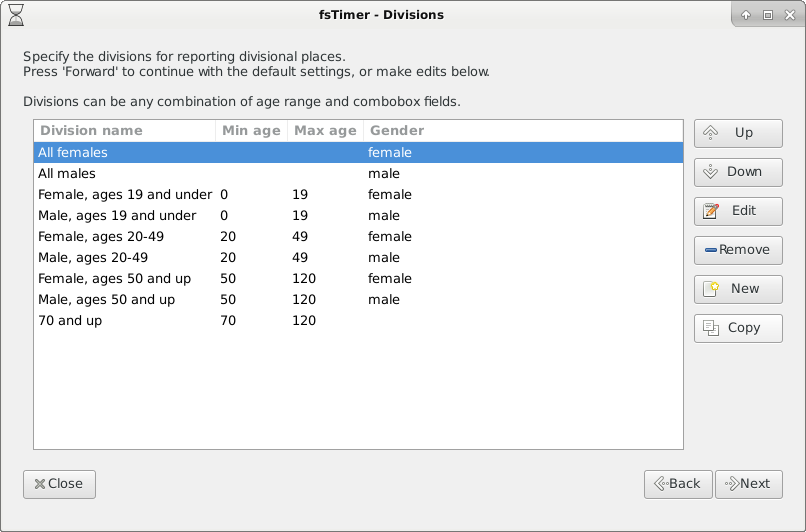
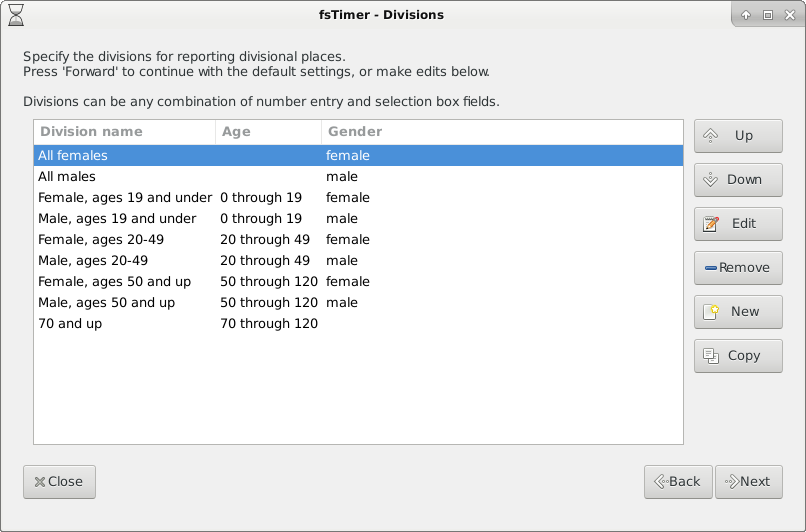
update documentation for new release

diff --git a/documentation/documentation_sec4_1.htm b/documentation/documentation_sec4_1.htm
@@ -48,7 +48,7 @@ Using the drop-down menu you can (optionally) select a project from which to imp
 
 The next window allows you to choose the type of the race:<br><br>
 
-<img width="516" height="221" src="documentation_figs/fstimer_fig61.png"><br><br> <!--645x277-->
+<img width="477" height="264" src="documentation_figs/fstimer_fig61.png"><br><br> <!--645x277-->
 
 A standard race is one where all racers have the same start time. In a handicap race, a "Handicap" time must be specified for all racers. Their final time is then calculated as the marked time minus the handicap. This allows racers to start at different times - a racer could start five minutes late, and by specifying a handicap of "0:05:00" for that racer, his or her time in the results would be corrected. Usually this is done for a race where all runners provide their handicap relative to a base time, and runners start at different times with the hope of all crossing the finish line around the same time.<br><br>
 
@@ -56,19 +56,21 @@ For lap timing, times are marked each time a racer completes a lap. The results 
 
 The next window allows you to specify the fields that will show up in the registration database.<br><br>
 
-<img width="482" height="341" src="documentation_figs/fstimer_fig19.png"><br><br> <!--602x426-->
+<img width="485" height="379" src="documentation_figs/fstimer_fig19.png"><br><br> <!--602x426-->
 
 The "Up" and "Down" buttons allow you to change the order of the fields. This is the order in which they will appear in the registration database: The top entry in this window will be the furthest left column in the registration window, and the bottom entry in this window will be the furthest right column in the registration window. This is also the order that they will show up in the results printouts, should you choose to have them in the results printouts.<br><br>
 
-The "Remove" button removes a field. ID and Age, however, are hard-coded fields and cannot be removed. ID is critical for the timing itself. If you don't want to use Age, you can simply leave that field blank. If it is a "handicap" race, then the field "Handicap" is also required. The "New.." buttons allow you to create a new entrybox or combobox. A combobox means in the registration database the entry will have to take one of a set collection of values. In the window for creating a new registration entry below, "Gender" is a combobox with options "male" and "female" (and blank). An entrybox is a box for freely entering text, like "Last name" and "First name" in the registration entry below.<br><br>
+The "Remove" button removes a field. ID, however, cannot be removed inasmuch as it is critical for the timing itself. If it is a "handicap" race, then the field "Handicap" is also required. The "New.." buttons allow you to create a new "text entry," "number entry," or "selection box." A "selection box" means in the registration database the entry will have to take one of a set collection of values. In the window for creating a new registration entry below, "Gender" is a selection box with options "male" and "female" (and blank). An entry is a box for freely entering text, like "Last name" and "First name" in the registration entry below. If it is specified as a "Number entry", then whatever is entered will be required to be a number, or else it will not be printed in the results. Number entries are used for creating divisions, such as age ranges - the process of creating divisions is detailed further down.<br><br>
 
 <img width="310" height="332" src="documentation_figs/fstimer_fig29.png"><br><br> <!--388x415-->
 
-When creating a new entrybox, you will specify the name of the field (e.g., Last name) and the maximum number of characters to allow in the entrybox. The appropriate maximum number of characters will depend on the field (ID will probably require fewer than Address).<br><br>
+When creating a new text entry, you will specify the name of the field (e.g., Last name) and the maximum number of characters to allow in the entrybox. The appropriate maximum number of characters will depend on the field (ID will probably require fewer than Address).<br><br>
 
 <img width="482" height="341" src="documentation_figs/fstimer_fig30.png"><br><br> <!--602x426-->
 
-When creating a new combobox, you will specify the name of the field (e.g., Gender) as well as what the options in the combobox should be, separated by commas. For example, "male,female" would indicate that the options should be male and female. A blank option will automatically be added to any combobox, you don't need to worry about adding it yourself.<br><br>
+Number entries are created in the same way. The value in a number entry should always be an integer (i.e., not a decimal number). Number entries will allow you to enter text or decimal numbers, but invalid values like these will not be shown in the results.<br><br>
+
+When creating a new selection box, you will specify the name of the field (e.g., Gender) as well as what the options in the selection box should be, separated by commas. For example, "male,female" would indicate that the options should be male and female. A blank option will automatically be added to any selection box, you don't need to worry about adding it yourself.<br><br>
 
 <img width="482" height="341" src="documentation_figs/fstimer_fig31.png"><br><br> <!--602x426-->
 
@@ -78,7 +80,7 @@ Next you can specify the divisionals. Again, "Up" and "Down" change the order in
 
 <img width="642" height="421" src="documentation_figs/fstimer_fig21.png"><br><br> <!--802x526-->
 
-"New" allows you to add a division. Divisions may be defined using a combination of age and any of the comboboxes that were defined as registration fields. For example, if "League" was specified as a combobox in when creating the registration fields, then you could define divisionals using "League." The name of the division that you specify will be used in the divisional results. Then, use the checkboxes to specify which fields you want to use to define the division. In the example below, "Gender" and "League" have been checked, so only those two fields will be used to define the division.<br><br>
+"New" allows you to add a division. Divisions may be defined using a combination of number entries and selection boxes that were defined as registration fields. For example, if "League" was specified as a combobox in when creating the registration fields, then you could define divisionals using "League." If "Age" was specified as a number entry, then any range of values can be used in defining the division. The name of the division that you specify will be used in the divisional results. Then, use the checkboxes to specify which fields you want to use to define the division. In the example below, "Gender" and "League" have been checked, so only those two fields will be used to define the division.<br><br>
 
 <img width="642" height="421" src="documentation_figs/fstimer_fig33.png"><br><br> <!--802x526-->
 
@@ -92,7 +94,7 @@ In the next window we choose which information we want to include on the results
 
 From the top group of checkboxes, you can select which registration fields to include on the results printouts. Next you can select to include Time and/or Pace. If the check box next to Pace is marked, then Pace will be included in the results, computed as Time / distance using the distance that you specify in the Distance entry box. If you enter "5" and your race is a 5k, then the Pace that is calculated will be min/km. If you enter "3.107" for your 5k, then the pace that is calculated will be min/mile.<br><br>
 
-The last section on the window allows you to create custom computed fields, which can be calculated using any of the registration fields, plus Time. You refer to a field by putting the field name (case sensitive!) in curly brackets, as in the screenshot above. So, in the computed results {First name} refers to field {First name}. You can then use any Python operations that you could use on those fields. {Age} and {Time} are numbers (floats), all other registration fields will be treated as text (strings). {Time} will be the time in seconds.<br><br>
+The last section on the window allows you to create custom computed fields, which can be calculated using any of the registration fields, plus Time. You refer to a field by putting the field name (case sensitive!) in curly brackets, as in the screenshot above. So, in the computed results {First name} refers to field {First name}. You can then use any Python operations that you could use on those fields. {Time} is a float number, any "number entry" fields are integers, and all other registration fields will be treated as text (strings). {Time} will be the time in seconds.<br><br>
 
 For example, the expression:<br>
 {First name} + ' ' + {Last name}<br>

diff --git a/documentation/documentation_sec2_6.htm b/documentation/documentation_sec2_6.htm
@@ -45,17 +45,17 @@ Now that we have explored the basic workings of fsTimer with the fstimer_demo pr
 
 First you will choose a name for the project. As it says, only letters, numbers, and underscore may be used in the project name. This will create a subdirectory in the fsTimer directory using the project name. That is, if the project name is project_name, it will create the directory fsTimer/project_name. All of the files generated by fsTimer will be saved in that project directory.<br><br>
 
-<img width="516" height="221" src="documentation_figs/fstimer_fig61.png"><br><br> <!--645x277-->
+<img width="477" height="264" src="documentation_figs/fstimer_fig61.png"><br><br> <!--645x277-->
 
 Next the project type is specified. As it says on the window, there are two project types: standard and handicap. A standard race is one where all racers have the same start time. In a handicap race each racer specifies a handicap, which is an amount of time that they will start later than the start time. Thus different racers can have different start times, but fsTimer will automatically subtract out their handicap when computing finishing times. For either race type, it is possible to have a race with multiple timed laps.<br><br>
 
-<img width="482" height="341" src="documentation_figs/fstimer_fig19.png"><br><br> <!--602x426-->
+<img width="485" height="379" src="documentation_figs/fstimer_fig19.png"><br><br> <!--602x426-->
 
-The next thing to be specified are the registration fields. These are exactly the fields that will show up in the "Registration" window. ID is a required field and must be filled out for runners to show up in results, but otherwise the fields can be customized to those which you want to use. New fields can be added as either an entrybox, meaning a box into which any information can be typed (like for name), or a combobox where one of a few options must be selected (like for gender).<br><br>
+The next thing to be specified are the registration fields. These are exactly the fields that will show up in the "Registration" window. ID is a required field and must be filled out for runners to show up in results, but otherwise the fields can be customized to those which you want to use. New fields can be added as either an text or number entry, meaning a box into which any information can be typed (like for name or age), or a selection box where one of a few options must be selected (like for gender).<br><br>
 
 <img width="642" height="421" src="documentation_figs/fstimer_fig21.png"><br><br> <!--802x526-->
 
-When you press the "Printouts" button from the Timing window, fsTimer will automatically generate two nicely formatted sets of results: overall results listing everyone, and automatically generated divisional results. This is the window where you can specify what the divisions should be for generating the divisional results. You specify the division name, and what the parameters for the division should be. The parameters can be a range of ages, and/or a collection of combobox values.<br><br>
+When you press the "Printouts" button from the Timing window, fsTimer will automatically generate two nicely formatted sets of results: overall results listing everyone, and automatically generated divisional results. This is the window where you can specify what the divisions should be for generating the divisional results. You specify the division name, and what the parameters for the division should be. The parameters can be a collection of combobox values and/or a range of number entry values.<br><br>
 
 <img width="484" height="505" src="documentation_figs/fstimer_fig73.png"><br><br> <!--606x632-->
 
@@ -71,10 +71,5 @@ And that's all there is to starting a new fsTimer project!<br><br>
 Continue on to <a href=documentation_sec3.htm>Section 3 Checklist for timing with fsTimer</a>.
 </div>
 
-<!--
-<div id="footer">
-Questions? Problems? <strike>Bugs</strike> Unanticipated features? Send us an email, at <a href="mailto:admin@fstimer.org">admin@fstimer.org</a>.<br>Copyright 2012 <a href="http://web.mit.edu/bletham/www/" target="_blank">Ben Letham</a>.
-</div>
--->
 </body>
 </html>

diff --git a/documentation/documentation_sec4_2.htm b/documentation/documentation_sec4_2.htm
@@ -40,6 +40,10 @@ The import module allows for a csv file to be imported into an fsTimer registrat
 
 <img width="682" height="399" src="documentation_figs/fstimer_fig4.png"><br><br> <!--853x499-->
 
+If you have accented or non-Latin characters, however, the csv must be in UTF-8. Microsoft Excel will not produce a UTF-8 CSV file, so see these directions on how to get from an Excel spreadsheet to a UTF-8 CSV:<br>
+<a href="https://help.surveygizmo.com/help/encode-an-excel-file-to-utf-8-or-utf-16">https://help.surveygizmo.com/help/encode-an-excel-file-to-utf-8-or-utf-16</a>.<br>
+The Google Drive solution described towards the bottom of the page is probably the easiest, or the LibreOffice solution is great if you need to do this frequently.<br><br>
+
 See the fstimer_demo_online_registration.csv file that comes in the fstimer_demo project preloaded in fsTimer for an example of how the spreadsheet should be formatted. The first row is a header row, giving the name of each column.<br><br>
 
 After pressing "Open" and selecting a csv file, the field mapping window will open:<br><br>
@@ -62,7 +66,7 @@ If you are importing data into a combobox (recall, this is the type of field tha
 
 <img width="482" height="341" src="documentation_figs/fstimer_fig34.png"><br><br> <!--602x426-->
 
-The error tells you what the invalid value is ("Male" instead of "male", "female", or blank), and where in the csv the error is (row 25). Correct any errors until the csv imports directly. When the csv is successfully imported, it will write the corresponding registration database file to a file named project_name_registration_prereg.json, in the directory fstimer/project_name. The file name is printed in the text field on the pre-registration window. <b>Note</b> that if a file project_name_registration_prereg.json already exists (for instance, because you already imported another csv in this same project), <b>it will be overwritten</b>.<br><br>
+The error tells you what the invalid value is ("M" instead of "male", "female", or blank), and where in the csv the error is (row 25). Correct any errors until the csv imports directly. When the csv is successfully imported, it will write the corresponding registration database file to a file named project_name_registration_prereg.json, in the directory fstimer/project_name. The file name is printed in the text field on the pre-registration window. <b>Note</b> that if a file project_name_registration_prereg.json already exists (for instance, because you already imported another csv in this same project), <b>it will be overwritten</b>.<br><br>
 
 
 Continue on to <a href="documentation_sec4_3.htm">Section 4.3 Registration - details</a>.

diff --git a/documentation/documentation_sec4_6.htm b/documentation/documentation_sec4_6.htm
@@ -31,7 +31,11 @@
 
 To time a race with multiple laps, you must specify the number of laps when creating the project (see <a href="documentation_sec4_1.htm">Section 4.1</a> to recall):<br><br>
 
-<img width="516" height="222" src="documentation_figs/fstimer_fig63.png"><br><br> <!--645x277 --> 
+<img width="397" height="220" src="documentation_figs/fstimer_fig63.png"><br><br> <!--645x277 --> 
+
+By default, if racers do not complete the specified number of laps, they will show up in the final results, but ranked at the bottom (since, for instance, they may not have completed the race). The final checkbox in the window above allows for indicating that racers can complete variable number of laps. If checked, then racers will be ranked regardless of how many laps they complete.<br><br>
+
+
 
 There are two new additions to the timing window:<br><br>
 
@@ -53,7 +57,7 @@ When we press "Printouts," the results will be sorted by total time and will con
 
 <img width="544" height="280" src="documentation_figs/fstimer_fig67.png"><br><br> <!--680x350 --> 
 
-Racers that did not complete the correct number of laps will not have a total time and so will be placed at the end of the results. Divisional times are similar, and contain automatically calculated lap times.<br><br>
+Again, unless the "Racers complete variable number of laps" box is checked, racers that did not complete the correct number of laps will not have a total time and so will be placed at the end of the results. Divisional times are similar, and contain automatically calculated lap times.<br><br>
 
 All of the same tools for editing times from <a href="documentation_sec4_5.htm">Section 4.5</a> apply for lap timing.<br><br>
 

diff --git a/documentation/documentation_sec2_4.htm b/documentation/documentation_sec2_4.htm
@@ -42,17 +42,12 @@ The Compile window allows us to compile registration databases from multiple fil
 
 We must press "Add" to choose all of the registration databases that we wish to compile together. For now we only have one registration database (fstimer_demo_registration_1.json), so we press "Add" and select it. The names of the registration files that we add show up in the field in the center of the window, and can be removed by selecting them and pressing "Remove." After we have added all of the registration databases to be compiled, we press "Merge."<br><br>
 
-<img width="482" height="381" src="documentation_figs/fstimer_fig12.png"><br><br> <!--602x476-->
+<img width="482" height="383" src="documentation_figs/fstimer_fig12.png"><br><br> <!--602x476-->
 
 This will check for a certain type of database error (more details on that in <a href="documentation_sec4_4.htm">Section 4.4</a>), and will write two files: the compiled registration, and the timing dictionary. The compiled registration is an fsTimer registration database that can be opened using the Register window just as any other fsTimer registration database, except it now contains the information merged across all of the input databases. The timing dictionary is a special file that is required for race timing.<br><br>
 
 Continue on to <a href=documentation_sec2_5.htm>Section 2.5 Race timing</a>.
 </div>
 
-<!--
-<div id="footer">
-Questions? Problems? <strike>Bugs</strike> Unanticipated features? Send us an email, at <a href="mailto:admin@fstimer.org">admin@fstimer.org</a>.<br>Copyright 2012 <a href="http://web.mit.edu/bletham/www/" target="_blank">Ben Letham</a>.
-</div>
--->
 </body>
 </html>

diff --git a/documentation/documentation_sec2_5.htm b/documentation/documentation_sec2_5.htm
@@ -66,7 +66,7 @@ Pressing "Save" will save the current results to a file that can be loaded by fs
 
 <img width="545" height="144" src="documentation_figs/fstimer_fig17.png"><br><br> <!--682x181-->
 
-"Print" will automatically generate two html files in fact: Overall results that include everyone, and divisional results. Note that if you enter the pass ID (0) as the bib number for a time, then that time will not show up in the results at all. Basically the pass ID "skips" times, and leaves them out of the results.<br><br>
+"Printouts" will automatically generate two html files in fact: Overall results that include everyone, and divisional results. Note that if you enter the pass ID (0) as the bib number for a time, then that time will not show up in the results at all. Basically the pass ID "skips" times, and leaves them out of the results.<br><br>
 
 The other buttons (Options, Drop ID, Drop time, and Edit) will be described in <a href="documentation_sec4_5.htm">Section 4.5</a>.<br><br>
 
@@ -75,10 +75,5 @@ Press "Close" to exit the timing window. At this point the race will have finish
 Continue on to <a href=documentation_sec2_6.htm>Section 2.6 Creating a new project</a>.
 </div>
 
-<!--
-<div id="footer">
-Questions? Problems? <strike>Bugs</strike> Unanticipated features? Send us an email, at <a href="mailto:admin@fstimer.org">admin@fstimer.org</a>.<br>Copyright 2012 <a href="http://web.mit.edu/bletham/www/" target="_blank">Ben Letham</a>.
-</div>
--->
 </body>
 </html>

diff --git a/documentation/documentation_sec2_2.htm b/documentation/documentation_sec2_2.htm
@@ -56,13 +56,12 @@ Once we have chosen a csv field for each registration database field (or chosen 
 
 The text field in the preregister window shows that the preregistration csv was successfully imported and the imported registration file was saved as ``fstimer_demo_registration_prereg.json." The other lines of text show which csv fields (that is, spreadsheet columns) were detected and some other details that are described in <a href="documentation_sec4_2.htm">Section 4.2</a>.<br><br>
 
+<b>IMPORTANT:</b> If you have non-latin characters in your spreadsheet like &#233; or &#246;, the CSV must be in UTF-8 encoding. By default, Microsoft Excel will not produce a UTF-8 CSV. Check this site for instructions on how to produce a UTF-8 CSV from an Excel spreadsheet:
+<br><a href="https://help.surveygizmo.com/help/encode-an-excel-file-to-utf-8-or-utf-16">https://help.surveygizmo.com/help/encode-an-excel-file-to-utf-8-or-utf-16</a>.<br>
+The Google Drive solution described towards the bottom of the page is probably the easiest.<br><br>
+
 Continue on to <a href=documentation_sec2_3.htm>Section 2.3 Registration</a>.
 </div>
 
-<!--
-<div id="footer">
-Questions? Problems? <strike>Bugs</strike> Unanticipated features? Send us an email, at <a href="mailto:admin@fstimer.org">admin@fstimer.org</a>.<br>Copyright 2012 <a href="http://web.mit.edu/bletham/www/" target="_blank">Ben Letham</a>.
-</div>
--->
 </body>
 </html>

diff --git a/documentation/documentation_sec4_4.htm b/documentation/documentation_sec4_4.htm
@@ -66,6 +66,10 @@ The Compile window says at the bottom "errors corrected" and will print the name
 
 In addition to the timing dictionary and the compiled registration database in fsTimer format, fsTimer will also save a csv spreadhseet containing the merged registration information to the file project_name_registration.csv. This is useful for having a portable spreadsheet with all of the registration information collected day-of.<br><br>
 
+As mentioned at the bottom of the screenshot above, the compilation process also generates start sheets. These are nicely formatted printouts that list all of the registered racers ordered by ID. There are two startsheets generated, both stored as HTML files in the project directory: one file with all registered racers in one list, and a second file that has the registered racers broken down by division:<br><br>
+
+<img width="451" height="285" src="documentation_figs/fstimer_fig79.png"><br><br>
+
 As a final note, as was mentioned in <a href="documentation_sec2_4.htm">Section 2.4</a>, even if there is only one registration database to be used for timing (i.e., there is nothing to merge), you must still compile that one registration database so as to create the timing dictionary.<br><br>
 
 Continue on to <a href="documentation_sec4_5.htm">Race timing - details</a>.

diff --git a/documentation/documentation_sec5.htm b/documentation/documentation_sec5.htm
@@ -28,8 +28,19 @@ The development version of fsTimer is on github at:<br><br>
 
 Contributions of code are always welcome!<br><br>
 
+<b>Changelog for fsTimer 0.7</b><br><br>
+fsTimer 0.7 was released on January 10, 2017 and is the sixth major release. The major changes since version 0.6 are:
+<ul>
+<li>A logging system was added that records any errors for debugging.
+<li>Start sheets are generated during compilation.
+<li>Allow a variable number of laps in lap races.
+<li>UTF-8 printouts in Windows.
+<li>Age is no longer a required field.
+<li>Users can create number fields, and specify divisions with ranges of their values.
+</ul><br><br>
+
 <b>Changelog for fsTimer 0.6</b><br><br>
-fsTimer 0.5 was released on April 9, 2016 and is the fifth major release. The major changes since version 0.5 are:
+fsTimer 0.6 was released on April 9, 2016 and is the fifth major release. The major changes since version 0.5 are:
 <ul>
 <li>The entire codebase was migrated from python2 to python3, and from Gtk2/PyGTK to Gtk3/PyGObject.
 <li>The user can now specify which fields to include on the printouts, including fields that are computed from other fields by providing a Python expression.

diff --git a/documentation/documentation_sec4_7.htm b/documentation/documentation_sec4_7.htm
@@ -31,11 +31,11 @@
 
 To time a handicap race, you must specify the race type as "handicap" when creating the project (see <a href="documentation_sec4_1.htm">Section 4.1</a> to recall):<br><br>
 
-<img width="516" height="222" src="documentation_figs/fstimer_fig68.png"><br><br> <!--645x277 --> 
+<img width="397" height="220" src="documentation_figs/fstimer_fig68.png"><br><br> <!--645x277 --> 
 
 For handicap races, "Handicap" will be added to the list of registration fields and is not optional:<br><br>
 
-<img width="482" height="341" src="documentation_figs/fstimer_fig69.png"><br><br> <!--602x426 --> 
+<img width="484" height="379" src="documentation_figs/fstimer_fig69.png"><br><br> <!--602x426 --> 
 
 All racers must be given a handicap or they will not show up in the results printout. The handicap must be specified as hh:mm:ss. When inputting a handicap in the registration window, it will verify that the handicap is in the right format and will not allow the entry to be created/edited if handicap is in the wrong format:<br><br>:
 
